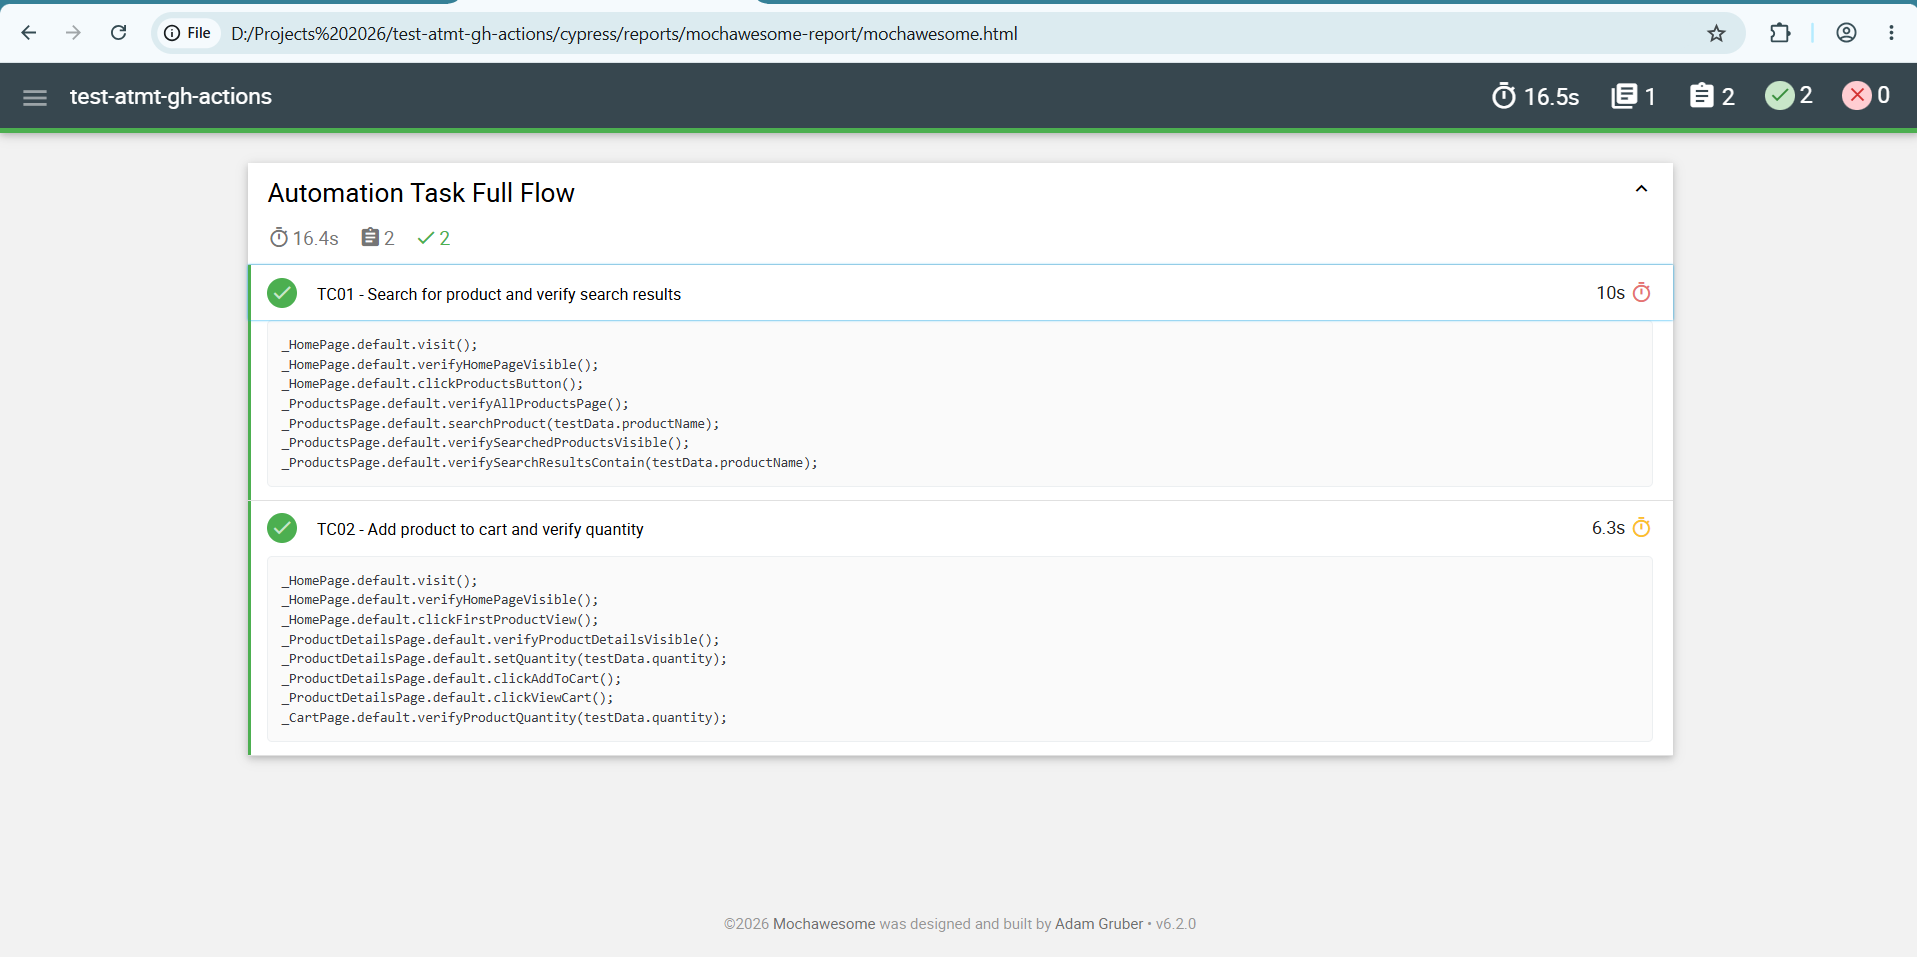
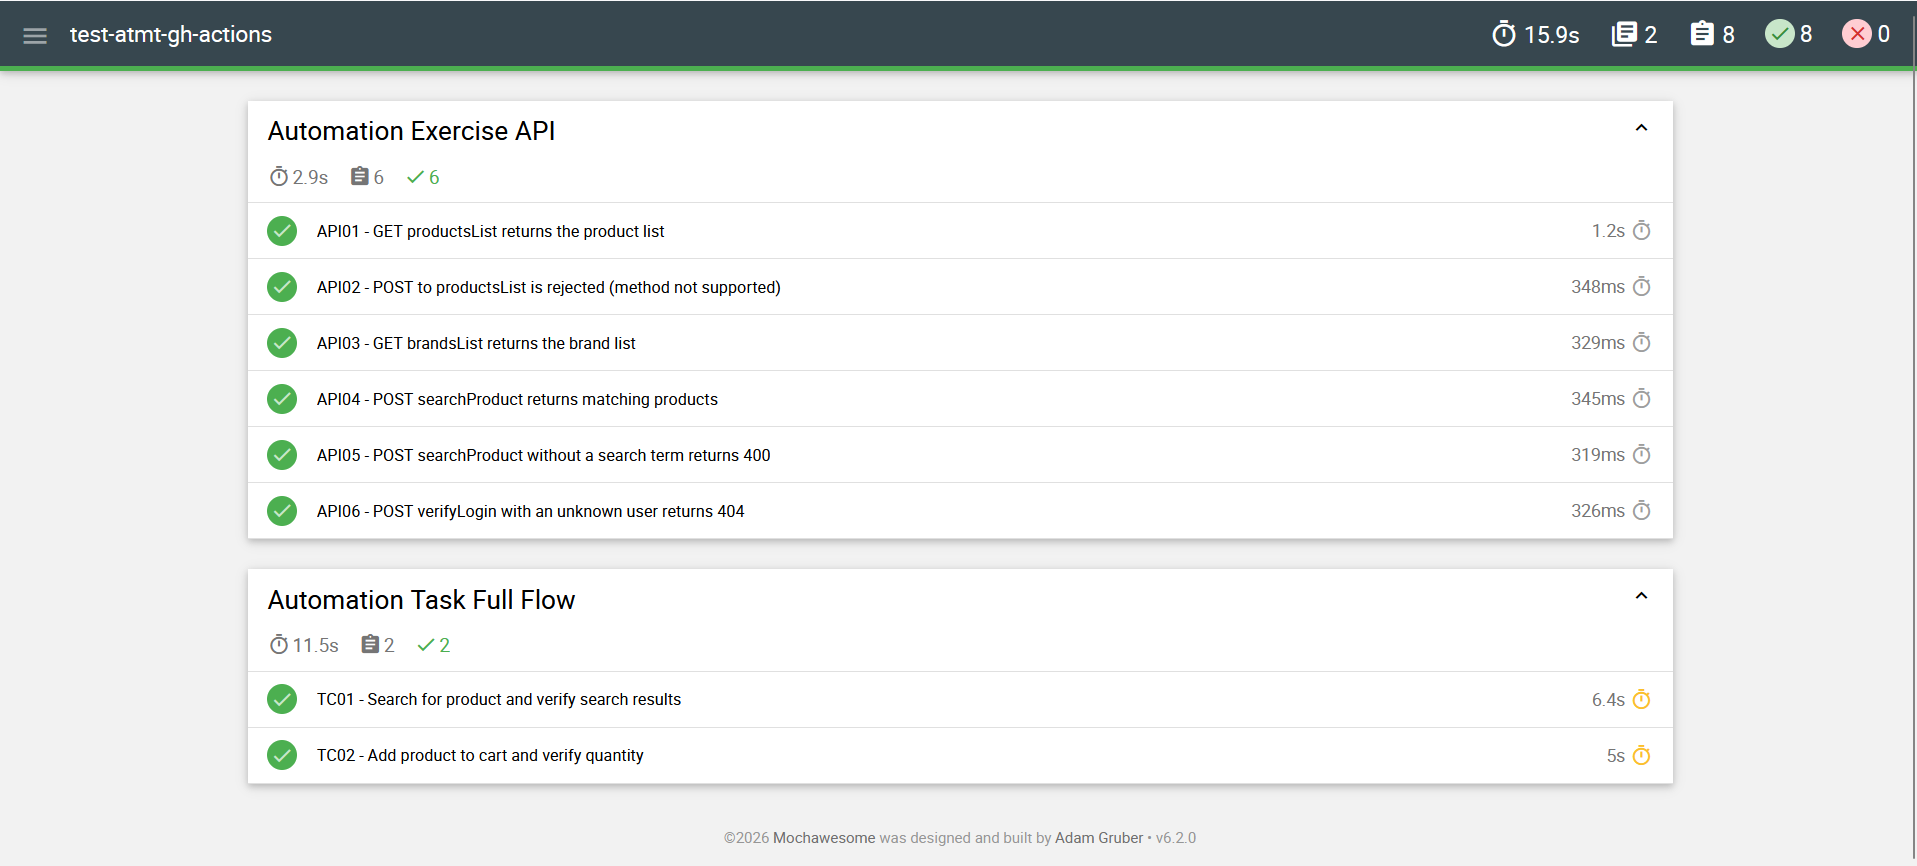
Update README notes

diff --git a/README.md b/README.md
@@ -92,8 +92,7 @@ Open the **Actions** tab, choose a run, and download the `mochawesome-report-<br
 ## Notes
 
 - The site under test is a public practice application. No real accounts or data are used.
-- Planned next steps: login and signup tests, a negative login case, and a checkout flow.
-
+- Possible extensions: login and signup flows, and a checkout flow.
 ## Author
 
 **Rifat Naorin**, Software QA Engineer
